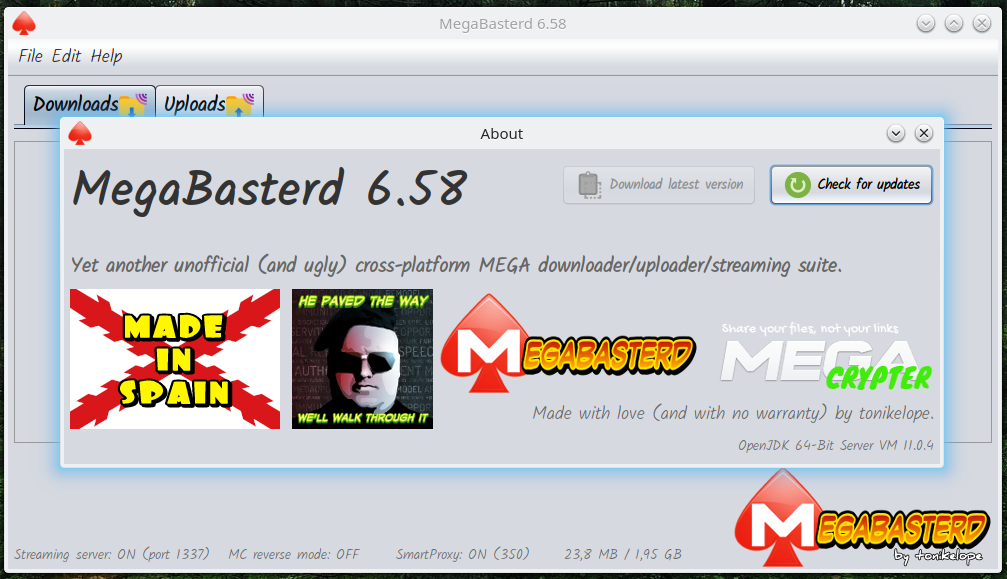
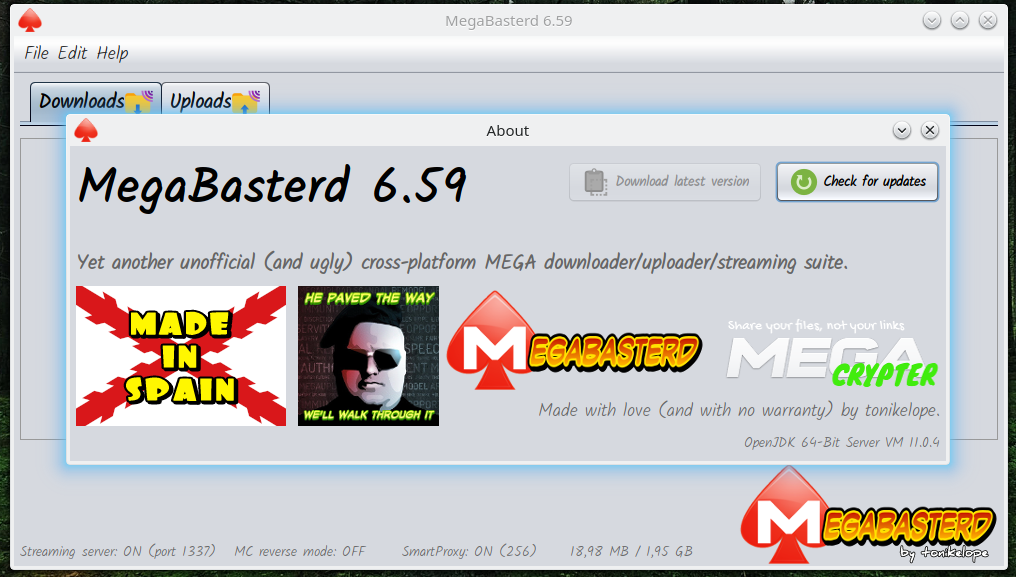
6.59
-GUI fix

Changed region(s): [[0.0, 0.0, 1.0, 1.0]]

diff --git a/src/main/java/com/tonikelope/megabasterd/Download.java b/src/main/java/com/tonikelope/megabasterd/Download.java
@@ -1530,7 +1530,7 @@ public class Download implements Transference, Runnable, SecureSingleThreadNotif
 
             _progress = progress;
 
-            getMain_panel().getUpload_manager().increment_total_progress(_progress - old_progress);
+            getMain_panel().getDownload_manager().increment_total_progress(_progress - old_progress);
 
             int old_percent_progress = (int) Math.floor(((double) old_progress / _file_size) * 100);
 
@@ -1559,7 +1559,12 @@ public class Download implements Transference, Runnable, SecureSingleThreadNotif
 
     @Override
     public void unfreeze() {
-        this._frozen = false;
+        swingInvoke(() -> {
+
+            getView().printStatusNormal(getView().getStatus_label().getText().replaceFirst("^\\([^)]+\\) ", ""));
+        });
+
+        _frozen = false;
     }
 
     @Override

diff --git a/src/main/java/com/tonikelope/megabasterd/Upload.java b/src/main/java/com/tonikelope/megabasterd/Upload.java
@@ -1181,7 +1181,13 @@ public class Upload implements Transference, Runnable, SecureSingleThreadNotifia
 
     @Override
     public void unfreeze() {
-        this._frozen = false;
+
+        swingInvoke(() -> {
+
+            getView().printStatusNormal(getView().getStatus_label().getText().replaceFirst("^\\([^)]+\\) ", ""));
+        });
+
+        _frozen = false;
     }
 
     @Override

diff --git a/src/main/java/com/tonikelope/megabasterd/MainPanel.java b/src/main/java/com/tonikelope/megabasterd/MainPanel.java
@@ -53,7 +53,7 @@ import javax.swing.UIManager;
  */
 public final class MainPanel {
 
-    public static final String VERSION = "6.58";
+    public static final String VERSION = "6.59";
     public static final int THROTTLE_SLICE_SIZE = 16 * 1024;
     public static final int DEFAULT_BYTE_BUFFER_SIZE = 16 * 1024;
     public static final int STREAMER_PORT = 1337;
